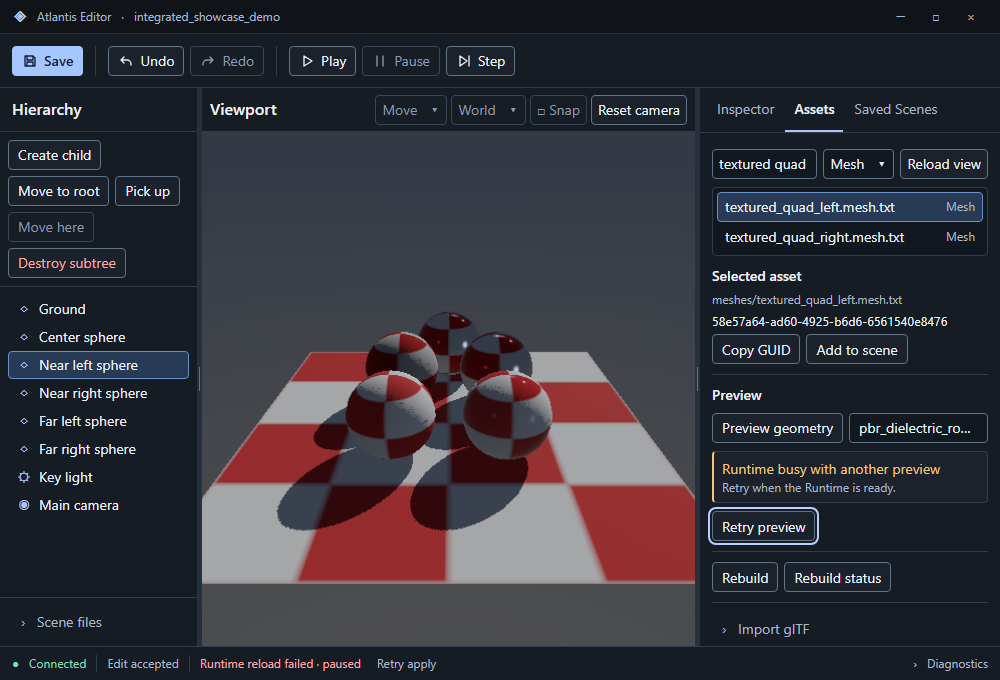
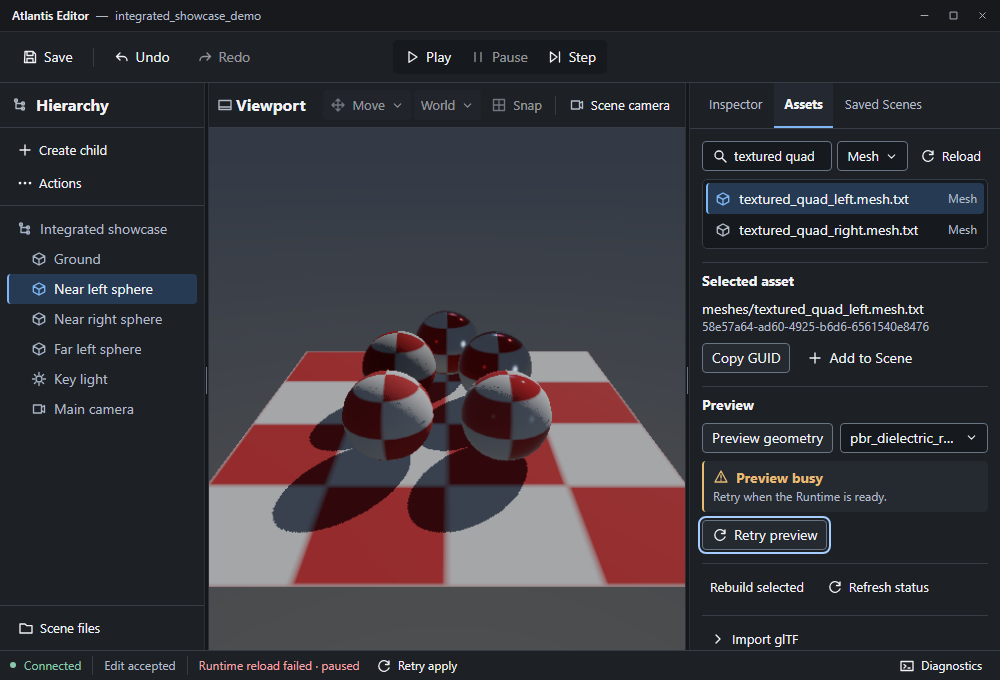
spec: refine editor visual direction

diff --git a/docs/specs/0093-editor-visual-layout.md b/docs/specs/0093-editor-visual-layout.md
@@ -49,8 +49,11 @@ Runtime rendering changes, and changes to the native debug Editor.
 **R1. Window and panes.** Retain the native Windows title bar, resizable
 Hierarchy / Viewport / right workspace, and existing Inspector, Assets and
 conditional Saved Scenes tabs. Place Save, Undo/Redo and Play/Pause/Step in
-a common command row. Put hierarchy actions with the tree, gizmo controls
-above the Viewport, and New Scene / Save As in an inline **Scene files**
+a common command row, with document/history actions on the left and grouped
+transport controls in the center. Keep Create child beside the hierarchy
+and the other existing structural actions in an inline **Actions**
+disclosure. Group transform mode, coordinate space, snap, and scene camera
+in the Viewport header. Keep New Scene / Save As in an inline **Scene files**
 section with their existing permission and result states. Put measurement
 controls and detailed diagnostics behind a labeled **Diagnostics** section
 below the workspace, open by default for explicit diagnostic modes. Keep
@@ -59,17 +62,21 @@ Use reflow within the same panes at smaller widths, without moving existing
 focused or selected values into a different view. Keep menus, status,
 and diagnostics outside the embedded child viewport's bounds.
 
-**R2. Visual language.** Use a restrained graphite Fluent theme, the
+**R2. Visual language.** Use a neutral graphite Fluent theme, the
 Windows-installed Segoe UI family with framework/system fallback, and
 existing Avalonia controls and templates. Use 14 DIP for default controls,
-12 DIP for secondary text, and 16 DIP semibold for section headings.
-Use 4 / 8 / 12 / 16 DIP spacing, 30 DIP minimum command height, and 28 DIP
-minimum one-line list row height. Use project-authored 16 DIP line icons
-through the existing `PathIcon` control for a small set of familiar actions
-(Save, Undo, Redo, Play, Pause, Step). Keep visible labels and accessible
-names, including the existing edit description for Undo and Redo. Use the same treatment for text boxes, lists, tabs, primary and
-secondary actions, and keyboard focus. Provide a visible focus ring distinct
-from selection and hover. Do not use color alone to communicate status.
+12 DIP for secondary text, 16 DIP semibold for panel headings, and
+22–24 DIP for the chooser title. Use 4 / 8 / 12 / 16 DIP spacing, 30 DIP
+minimum command height, and 28 DIP minimum one-line list row height.
+Use project-authored 16 DIP line icons in the existing `PathIcon` control
+for familiar commands, a few object types, and section affordances. Keep
+visible command labels and accessible names, including the existing edit
+description for Undo and Redo. Group toolbar buttons on flat surfaces.
+Reserve stronger outlines for input and secondary action controls where
+needed, and reserve solid blue for primary confirmation. Use a tinted
+row with a leading marker for selection, an underline for active tabs,
+and a visible focus ring distinct from either. Do not use color alone
+to communicate status.
 Measure at least 4.5:1 contrast for enabled text, including state messages,
 and 3:1 for focus and essential control boundaries against adjacent colors.
 
@@ -78,13 +85,17 @@ and the chooser's Confirm/Cancel available while content scrolls. Use one
 primary line per asset row and a short type label. Keep full identifiers and
 paths in an adjacent detail or result region with selectable or copyable text.
 Truncate only labels whose full value remains available, and wrap guidance
-and errors without hiding the next action. Inspector labels and controls
-reflow when their usable width is limited. Asset references keep their
+and errors without hiding the next action. The Inspector shows the
+selection name above component groups separated by headings and dividers.
+Align editable values within each group, and reflow labels and controls
+when their usable width is limited. Asset references keep their
 existing editable text, Choose and Clear actions. Use one chooser layout for
 all references. Show the opening mesh and preview column only for the
-existing material path. Below 720 DIP, stack the preview below the list/details, within the
-scrolling body and with the action footer outside it.
-Keep preview state independent of Confirm. New Scene and Save As stay inline.
+existing material path. Use a distinct preview area with the preview
+action above the image. Below 720 DIP, stack the preview below the
+list/details within the scrolling body, with search and the action footer
+outside it. Keep preview state independent of Confirm. New Scene and Save
+As stay inline.
 
 **R4. State and interaction.** Use the existing session and operation results
 to show nearby text for empty, loading or busy, success, disabled and failed
@@ -92,8 +103,8 @@ states. Give failures their existing next action or recovery guidance. A
 save receipt or accepted edit and a failed or pending Runtime reload can
 coexist in the display. Report the latest known operation result without
 inferring a document-wide dirty or saved flag. Apply, retries, unknown
-results, focus restore,
-text drafts, keyboard shortcuts, Undo/Redo, pane sizing and modal dismissal
+results, focus restore, text drafts, keyboard shortcuts, Undo/Redo, pane
+sizing and modal dismissal
 keep their existing behavior. Long messages stay readable and do not resize
 the command row or hide the owning action. Keep keyboard order predictable
 and avoid stealing focus on asynchronous refresh.
@@ -110,19 +121,26 @@ icon assets, asynchronous work, polling, or work on the Runtime frame path.
 
 | View | Proposed arrangement |
 | --- | --- |
-| [Main window, standard](../images/0093-editor-visual-layout/main-window.png) | Command row above three panes. The selected node and Inspector are easy to associate, and the Viewport retains the largest share. |
+| [Main window, standard](../images/0093-editor-visual-layout/main-window.png) | A compact command row and viewport toolbar leave the scene as the focal point. The selected Hierarchy row and component groups identify the edited object. |
 | [Main window, compact](../images/0093-editor-visual-layout/compact-assets.png) | Short rows and a dedicated Assets detail area at reduced width. A busy preview and a separate Runtime reload failure each show their own recovery. |
 | [Material reference chooser](../images/0093-editor-visual-layout/reference-chooser.png) | The list and current field stay on the left. The labeled opening mesh and read-only preview stay together on the right, with a fixed action footer. |
 | [Narrow chooser](../images/0093-editor-visual-layout/compact-chooser.png) | The preview stacks under the results while the search and action footer remain reachable. |
 
-Use window `#101419`, pane `#161C24`, raised surface `#1B222C`, text
-`#ECF1F8` and secondary text `#AAB7C8`. Use `#A6C6FF` for the primary
-action fill with `#122039` text, `#273A56` for selection, `#B8D0FF` for
-focus, and `#627488` for essential control outlines. Suggested semantic
-foregrounds are `#A6C6FF` for information, `#7FDDB5` for success,
-`#F4C477` for warning, and `#FFA5A6` for failure. The mockups show sample
-content and states. Their embedded scene and preview images use existing
-repository captures, separate from the proposed chrome.
+Use window `#15171B`, pane `#1D2025`, raised surface `#252930`, text
+`#F0F2F5` and secondary text `#B3BBC7`. Use `#75ADF0` for the primary
+action fill with `#111B29` text, `#263B53` for selection, `#A6CDFF` for
+focus, and `#677585` for essential control outlines. Suggested semantic
+foregrounds are `#7DB6F5` for information, `#89C8AA` for success,
+`#E6BC75` for warning, and `#F3A2A7` for failure.
+
+The [Unreal Editor interface](https://dev.epicgames.com/documentation/unreal-engine/unreal-editor-interface)
+informs the distinction between the main and Viewport toolbars. The
+[Unity toolbar](https://docs.unity.com/en-us/engine/6000.0/manual/unity-editor/editor-navigating-managing/toolbar)
+and [component Inspector](https://docs.unity.com/en-us/engine/6000.0/manual/working-with-gameobjects/unity-components/inspector-manage-components)
+inform the grouped playback controls and property layout. Atlantis keeps
+the three existing panes and places all managed controls outside the native
+Viewport. The mockups use original UI styling and existing Atlantis scene
+and preview captures.
 
 ## Architectural Impact
 

diff --git a/docs/plans/0093-editor-visual-layout.md b/docs/plans/0093-editor-visual-layout.md
@@ -18,8 +18,9 @@ language while preserving current actions, authority, and state transitions.
 2. **S2. Shared styles and main window.** Register Editor-private Fluent
    resources and original icon paths. Recompose existing controls into the
    command row, panes, state strip and diagnostics section. Keep all pointer
-   and keyboard routes, sizing and session bindings. Style the Inspector,
-   Assets and Saved Scenes with consistent list, form and result treatments.
+   and keyboard routes, sizing and session bindings. Group structural actions
+   within the Hierarchy. Give the Inspector, Assets and Saved Scenes common list,
+   component, form and result treatments.
 3. **S3. Reference chooser and constrained sizes.** Apply the same visual
    rules to the generic and material variants, including the narrow flow,
    selectable long text, stable action footer and Confirm focus restoration.
@@ -52,8 +53,8 @@ Preserve [0082](../specs/0082-generic-asset-reference-picker.md),
 
 | Decision | Recommendation |
 | --- | --- |
-| **J1. Window layout** | Approve the three panes, common command row and separate diagnostics, with compact reflow inside the existing panes. |
-| **J2. Visual system and resources** | Approve the graphite Fluent direction, Windows UI font and limited project-authored icon paths. Keep existing dependencies and window chrome. |
+| **J1. Window layout** | Approve the three panes, centered transport controls, local hierarchy actions and separate diagnostics, with compact reflow inside the existing panes. |
+| **J2. Visual system and resources** | Approve neutral graphite Fluent, restrained blue emphasis, the Windows UI font and project-authored icon paths. Keep existing dependencies and window chrome. |
 | **J3. Dialog and state behavior** | Approve the two forms of one chooser, fixed action footer and existing keyboard/recovery semantics. Keep New Scene / Save As inline. |
 | **J4. Acceptance** | Approve the real Windows matrix and representative screenshots and interactions below. |
 
@@ -68,12 +69,14 @@ Preserve [0082](../specs/0082-generic-asset-reference-picker.md),
   or exercise the same instance through a Windows scale change and report
   that substitution. Capture standard and compact layouts and the material
   chooser at higher scaling. Check no clipped controls or hidden required
-  actions, sensible pane widths, and no child viewport overlap or input offset.
+  actions, reachable Hierarchy Actions, sensible pane widths, and no child
+  viewport overlap or input offset.
 - [ ] **R2/R3. Long and constrained content.** Use a long Unicode node
   label, a long unbroken source/checkout path, a full GUID, and a multiline
   Runtime/build failure. Check readable full values, no horizontal scroll
   at window level, scrollable content with a reachable footer, and text,
-  focus and control-boundary contrast against the chosen palette. Verify
+  focus and control-boundary contrast against the chosen palette. Check that
+  selected rows, active tabs and keyboard focus remain distinct. Verify
   normal and compact material chooser (check a 600 × 600 DIP client area
   at 150% or 200%) plus the non-preview variant.
 - [ ] **R3/R4. Interaction and state.** Check keyboard traversal and visible
